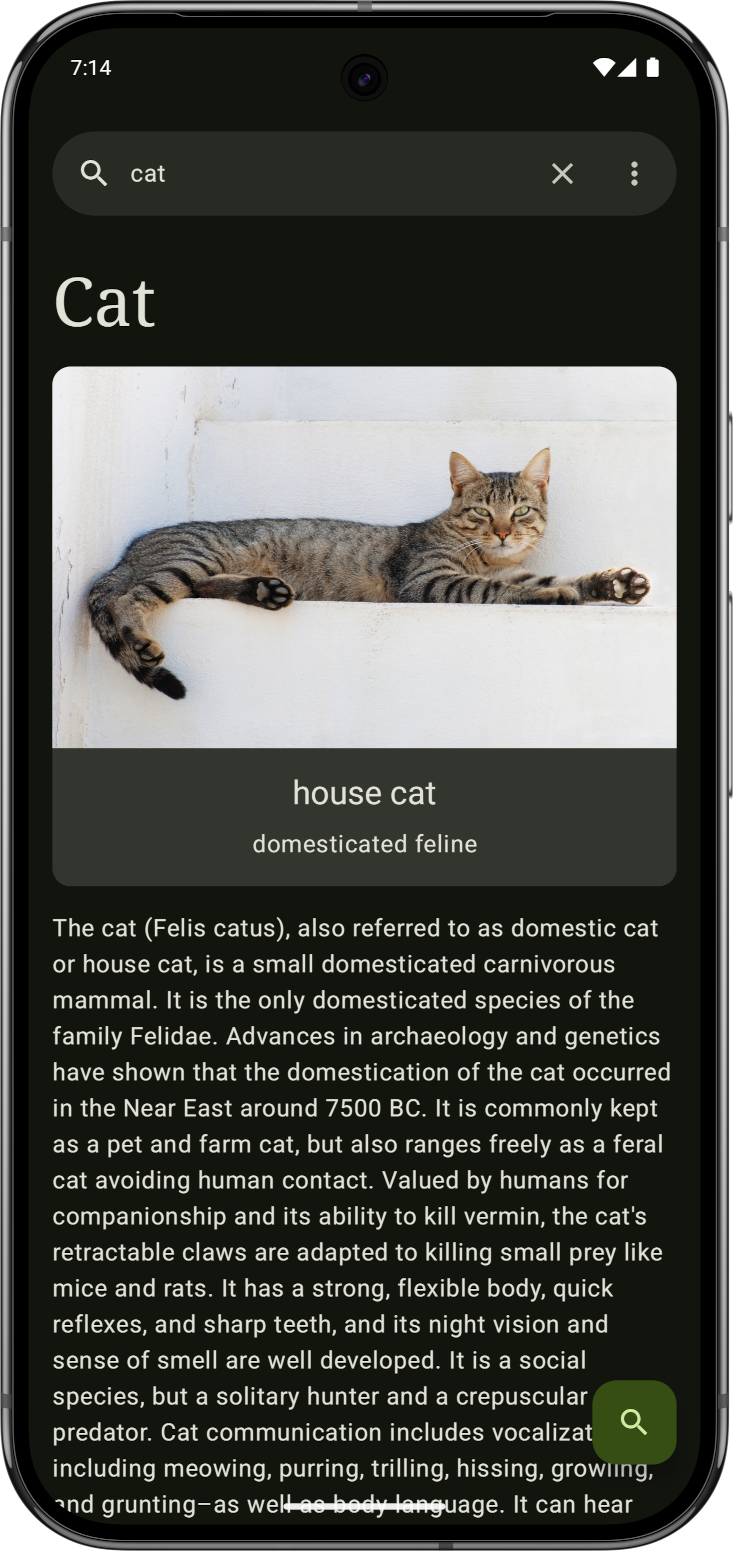
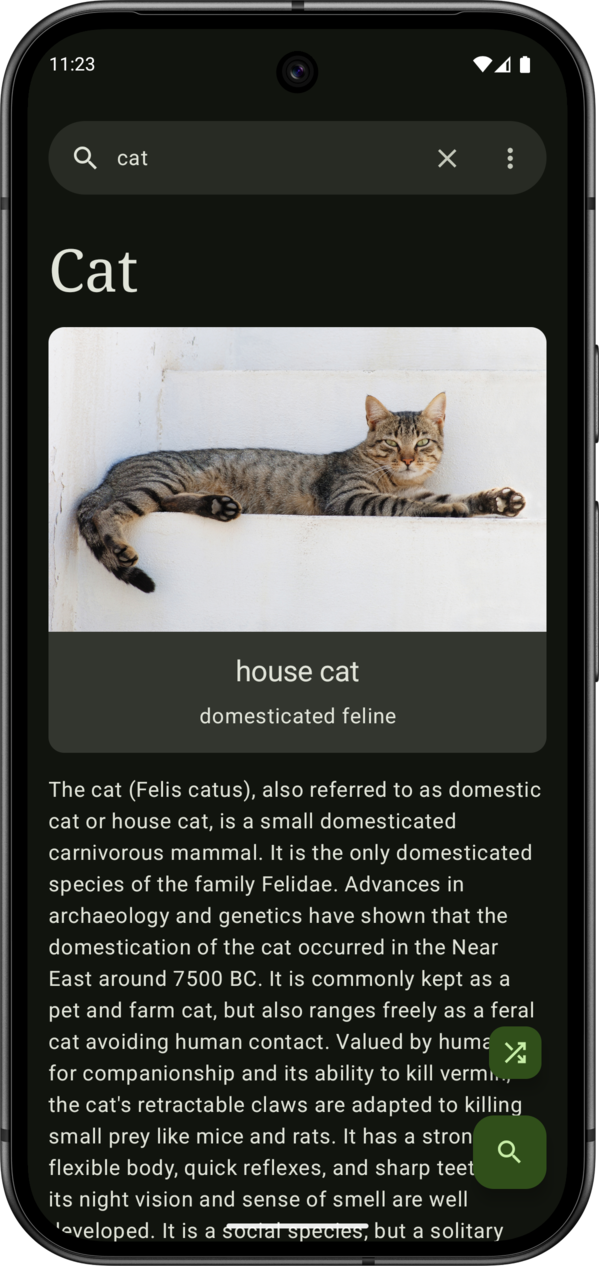
Update screenshots, bump version string, update descriptions

diff --git a/app/src/main/java/org/nsh07/wikireader/ui/viewModel/UiViewModel.kt b/app/src/main/java/org/nsh07/wikireader/ui/viewModel/UiViewModel.kt
@@ -84,6 +84,7 @@ class UiViewModel(
                 currentState.copy(history = appPreferencesRepository.readHistory() ?: emptySet())
             }
 
+            interceptor.setHost("$lang.wikipedia.org")
             isReady = true
         }
     }

diff --git a/README.md b/README.md
@@ -56,6 +56,7 @@ Supports light mode, dark mode and Material You dynamic colors
 - **Article image:** View an image of the topic from its Wikipedia page. Click on it to enlarge it
   and view in full-screen
 - **Random article:** Feeling lucky? Click the random article button to read a random article
+- **Choose your language:** Choose from over 300 languages on Wikipedia
 - **One-handed use:** Use the floating action buttons at the bottom for a complete one-handed
   experience
 - **Lightweight:** The app starts instantly, and works smoothly
